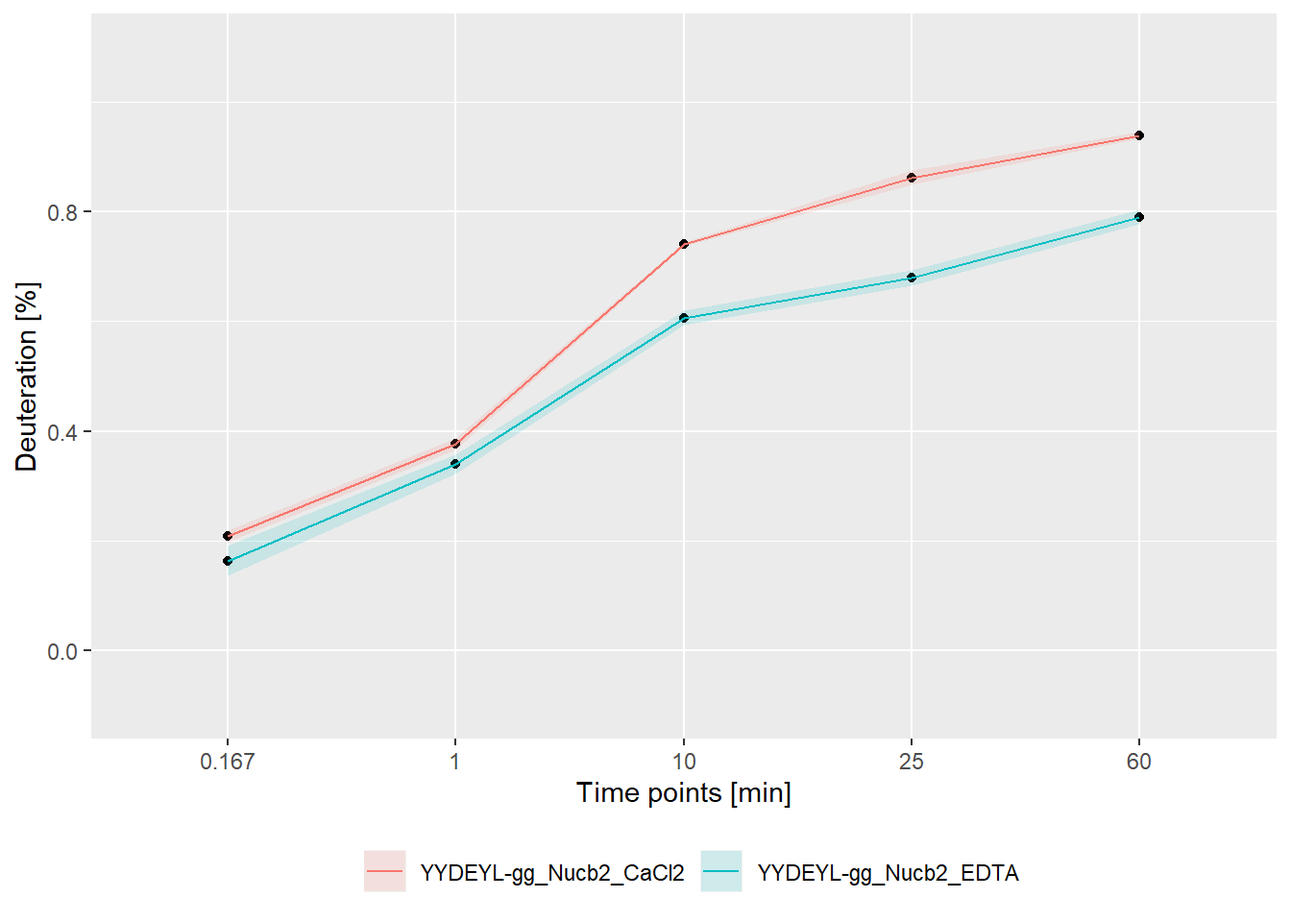
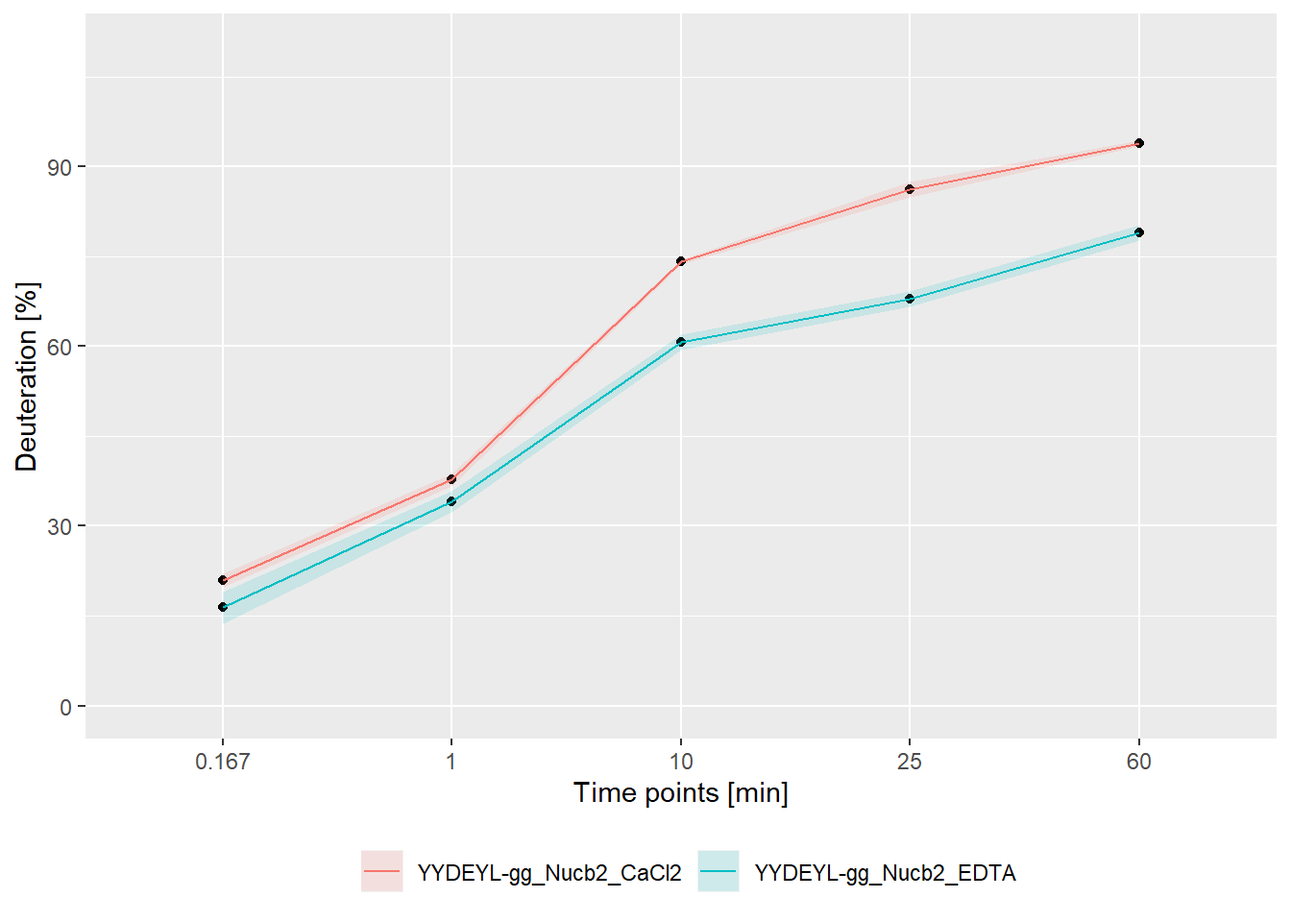
small vignette changes

diff --git a/docs/articles/overview.html b/docs/articles/overview.html
@@ -102,8 +102,8 @@
 <h2 class="hasAnchor">
 <a href="#comparison-of-the-existing-hdx-ms-software" class="anchor"></a>Comparison of the existing HDX-MS software</h2>
 <p>To show the novelty of HaDeX, we compare its functionalities with other relatively new software for analysis of HDX-MS data: MEMHDX <span class="citation">(Hourdel et al. 2016)</span> and Deuteros <span class="citation">(Lau et al. 2019)</span>.</p>
-<div id="htmlwidget-9978b064f5b861747e21" style="width:100%;height:auto;" class="datatables html-widget"></div>
-<script type="application/json" data-for="htmlwidget-9978b064f5b861747e21">{"x":{"style":"bootstrap","filter":"none","data":[["Accessibility","Accessibility","Accessibility","Analysis","Analysis","Analysis","Analysis","Analysis","Analysis","Visualization","Visualization","Visualization","Visualization","Visualization","Visualization","Visualization","Reporting","Reporting","Reporting","Reporting","Reporting"],["Web server","Programmatic access","Desktop software","Multi-state analysis","ISO-based uncertainty","Coverage and peptide overlap","Kinetics analysis","Quality control","N- and C-terminal length corrections","Global visualization of deuterium uptake","Woods plot","Zooming of the Woods plot","Customizable label names and colors","Peptide kinetics chart","3D structure visualization","Downloadable charts","Deuterium uptake download","Downloadable results of intermediate computations","Report generation","PyMol export","HDX Data Summary"],["Yes","No","No","No","No","No","Yes","No","No","Yes","No","No","No","Yes","Yes","Yes","Yes","No","No","No","No"],["No","No","Yes","No","No","No","No","No","Yes","Yes","Yes","Yes","No","No","No","Yes","Yes","No","No","Yes","No"],["Yes","Yes","Yes","Yes","Yes","Yes","Yes","Yes","Yes","Yes","Yes","Yes","Yes","Yes","No","Yes","Yes","Yes","Yes","No","Yes"]],"container":"<table class=\"table table-striped table-hover\">\n  <thead>\n    <tr>\n      <th>Type<\/th>\n      <th>Name<\/th>\n      <th>MEMHDX<\/th>\n      <th>Deuteros<\/th>\n      <th>HaDeX<\/th>\n    <\/tr>\n  <\/thead>\n<\/table>","options":{"dom":"t","ordering":false,"paging":false,"order":[],"autoWidth":false,"orderClasses":false,"rowCallback":"function(row, data) {\nvar value=data[2]; $(this.api().cell(row, 2).node()).css({'background-color':value == \"Yes\" ? \"#00BFFF\" : value == \"No\" ? \"#FF8C91\" : \"\"});\nvar value=data[3]; $(this.api().cell(row, 3).node()).css({'background-color':value == \"Yes\" ? \"#00BFFF\" : value == \"No\" ? \"#FF8C91\" : \"\"});\nvar value=data[4]; $(this.api().cell(row, 4).node()).css({'background-color':value == \"Yes\" ? \"#00BFFF\" : value == \"No\" ? \"#FF8C91\" : \"\"});\n}"}},"evals":["options.rowCallback"],"jsHooks":[]}</script><p>We have not considered HDX Workbench <span class="citation">(Pascal et al. 2012)</span> as it deals with the preliminary steps of the analysis.</p>
+<div id="htmlwidget-8c4b17b5b3e9479f0cd3" style="width:100%;height:auto;" class="datatables html-widget"></div>
+<script type="application/json" data-for="htmlwidget-8c4b17b5b3e9479f0cd3">{"x":{"style":"bootstrap","filter":"none","data":[["Accessibility","Accessibility","Accessibility","Analysis","Analysis","Analysis","Analysis","Analysis","Analysis","Visualization","Visualization","Visualization","Visualization","Visualization","Visualization","Visualization","Reporting","Reporting","Reporting","Reporting","Reporting"],["Web server","Programmatic access","Desktop software","Multi-state analysis","ISO-based uncertainty","Coverage and peptide overlap","Kinetics analysis","Quality control","N- and C-terminal length corrections","Global visualization of deuterium uptake","Woods plot","Zooming of the Woods plot","Customizable label names and colors","Peptide kinetics chart","3D structure visualization","Downloadable charts","Deuterium uptake download","Downloadable results of intermediate computations","Report generation","PyMol export","HDX Data Summary"],["Yes","No","No","No","No","No","Yes","No","No","Yes","No","No","No","Yes","Yes","Yes","Yes","No","No","No","No"],["No","No","Yes","No","No","No","No","No","Yes","Yes","Yes","Yes","No","No","No","Yes","Yes","No","No","Yes","No"],["Yes","Yes","Yes","Yes","Yes","Yes","Yes","Yes","Yes","Yes","Yes","Yes","Yes","Yes","No","Yes","Yes","Yes","Yes","No","Yes"]],"container":"<table class=\"table table-striped table-hover\">\n  <thead>\n    <tr>\n      <th>Type<\/th>\n      <th>Name<\/th>\n      <th>MEMHDX<\/th>\n      <th>Deuteros<\/th>\n      <th>HaDeX<\/th>\n    <\/tr>\n  <\/thead>\n<\/table>","options":{"dom":"t","ordering":false,"paging":false,"order":[],"autoWidth":false,"orderClasses":false,"rowCallback":"function(row, data) {\nvar value=data[2]; $(this.api().cell(row, 2).node()).css({'background-color':value == \"Yes\" ? \"#00BFFF\" : value == \"No\" ? \"#FF8C91\" : \"\"});\nvar value=data[3]; $(this.api().cell(row, 3).node()).css({'background-color':value == \"Yes\" ? \"#00BFFF\" : value == \"No\" ? \"#FF8C91\" : \"\"});\nvar value=data[4]; $(this.api().cell(row, 4).node()).css({'background-color':value == \"Yes\" ? \"#00BFFF\" : value == \"No\" ? \"#FF8C91\" : \"\"});\n}"}},"evals":["options.rowCallback"],"jsHooks":[]}</script><p>We have not considered HDX Workbench <span class="citation">(Pascal et al. 2012)</span> as it deals with the preliminary steps of the analysis.</p>
 <p><strong>Web server:</strong> a software is available as a web server.</p>
 <p><strong>Programmatic access:</strong> analytic functionalities are documented and available from a command line.</p>
 <p><strong>Desktop software:</strong> a software can be installed locally.</p>
@@ -133,11 +133,11 @@
 <h2 class="hasAnchor">
 <a href="#data-import" class="anchor"></a>Data import</h2>
 <p>The HaDeX web server works only on data in the DynamX datafile format (Waters Corp.). The data from other sources may be also adjusted to the format accepted by HaDeX provided it has following columns:</p>
-<div id="htmlwidget-6651a2d8198600b94a19" style="width:100%;height:auto;" class="datatables html-widget"></div>
-<script type="application/json" data-for="htmlwidget-6651a2d8198600b94a19">{"x":{"style":"bootstrap","filter":"none","data":[["Protein","Start","End","Sequence","Modification","Fragment","MaxUptake","MHP","State","Exposure","File","z","RT","Inten","Center"],["Character","Integer","Integer","Character","Logic","Logic","Numeric","Numeric","Character","Numeric","Character","Integer","Numeric","Numeric","Numeric"]],"container":"<table class=\"table table-striped table-hover\">\n  <thead>\n    <tr>\n      <th>Column.Name<\/th>\n      <th>Column.Type<\/th>\n    <\/tr>\n  <\/thead>\n<\/table>","options":{"dom":"t","ordering":false,"paging":false,"autoWidth":true,"order":[],"orderClasses":false}},"evals":[],"jsHooks":[]}</script><p>Although data can be imported into R using other tools, we strongly advise to rely on the <a href="https://hadexversum.github.io/HaDeX/reference/read_hdx.html">read_hdx()</a> function:</p>
+<div id="htmlwidget-b586ad79e2da7540904d" style="width:100%;height:auto;" class="datatables html-widget"></div>
+<script type="application/json" data-for="htmlwidget-b586ad79e2da7540904d">{"x":{"style":"bootstrap","filter":"none","data":[["Protein","Start","End","Sequence","Modification","Fragment","MaxUptake","MHP","State","Exposure","File","z","RT","Inten","Center"],["Character","Integer","Integer","Character","Logic","Logic","Numeric","Numeric","Character","Numeric","Character","Integer","Numeric","Numeric","Numeric"]],"container":"<table class=\"table table-striped table-hover\">\n  <thead>\n    <tr>\n      <th>Column.Name<\/th>\n      <th>Column.Type<\/th>\n    <\/tr>\n  <\/thead>\n<\/table>","options":{"dom":"t","ordering":false,"paging":false,"autoWidth":true,"order":[],"orderClasses":false}},"evals":[],"jsHooks":[]}</script><p>Although data can be imported into R using other tools, we strongly advise to rely on the <a href="https://hadexversum.github.io/HaDeX/reference/read_hdx.html">read_hdx()</a> function:</p>
 <div class="sourceCode" id="cb1"><pre class="sourceCode r"><code class="sourceCode r"><a class="sourceLine" id="cb1-1" title="1">dat &lt;-<span class="st"> </span><span class="kw"><a href="../reference/read_hdx.html">read_hdx</a></span>(<span class="kw"><a href="https://www.rdocumentation.org/packages/base/topics/system.file">system.file</a></span>(<span class="dt">package =</span> <span class="st">"HaDeX"</span>, </a>
 <a class="sourceLine" id="cb1-2" title="2">                            <span class="st">"HaDeX/data/KD_190304_Nucb2_EDTA_CaCl2_test02_clusterdata.csv"</span>))</a></code></pre></div>
-<p>Currently, <a href="https://hadexversum.github.io/HaDeX/reference/read_hdx.html">read_hdx()</a> supports .csv, .tsv and .xls files fulfilling the data structure described above.</p>
+<p>Currently, <a href="https://hadexversum.github.io/HaDeX/reference/read_hdx.html">read_hdx()</a> supports .csv, .tsv and .xls files fulfilling the data structure described above. Files with data from multiple proteins are supported. The user need to indicate which protein is of interest for calculations.</p>
 </div>
 <div id="computation-of-deuteration-levels" class="section level2">
 <h2 class="hasAnchor">
@@ -397,11 +397,11 @@
 <pre><code>## # A tibble: 5 x 15
 ##   Protein Sequence Start   End State time_chosen frac_exch_state
 ##   &lt;chr&gt;   &lt;chr&gt;    &lt;int&gt; &lt;int&gt; &lt;chr&gt; &lt;fct&gt;                 &lt;dbl&gt;
-## 1 db_Nuc~ YYDEYL      45    50 gg_N~ 0.167                 0.209
-## 2 db_Nuc~ YYDEYL      45    50 gg_N~ 1                     0.377
-## 3 db_Nuc~ YYDEYL      45    50 gg_N~ 10                    0.741
-## 4 db_Nuc~ YYDEYL      45    50 gg_N~ 25                    0.862
-## 5 db_Nuc~ YYDEYL      45    50 gg_N~ 60                    0.939
+## 1 db_Nuc~ YYDEYL      45    50 gg_N~ 0.167                  20.9
+## 2 db_Nuc~ YYDEYL      45    50 gg_N~ 1                      37.7
+## 3 db_Nuc~ YYDEYL      45    50 gg_N~ 10                     74.1
+## 4 db_Nuc~ YYDEYL      45    50 gg_N~ 25                     86.2
+## 5 db_Nuc~ YYDEYL      45    50 gg_N~ 60                     93.9
 ## # ... with 8 more variables: err_frac_exch_state &lt;dbl&gt;,
 ## #   abs_frac_exch_state &lt;dbl&gt;, err_abs_frac_exch_state &lt;dbl&gt;,
 ## #   avg_theo_in_time &lt;dbl&gt;, err_avg_theo_in_time &lt;dbl&gt;,
@@ -418,11 +418,11 @@
 <pre><code>## # A tibble: 5 x 15
 ##   Protein Sequence Start   End State time_chosen frac_exch_state
 ##   &lt;chr&gt;   &lt;chr&gt;    &lt;int&gt; &lt;int&gt; &lt;chr&gt; &lt;fct&gt;                 &lt;dbl&gt;
-## 1 db_Nuc~ YYDEYL      45    50 gg_N~ 0.167                 0.164
-## 2 db_Nuc~ YYDEYL      45    50 gg_N~ 1                     0.340
-## 3 db_Nuc~ YYDEYL      45    50 gg_N~ 10                    0.607
-## 4 db_Nuc~ YYDEYL      45    50 gg_N~ 25                    0.679
-## 5 db_Nuc~ YYDEYL      45    50 gg_N~ 60                    0.790
+## 1 db_Nuc~ YYDEYL      45    50 gg_N~ 0.167                  16.4
+## 2 db_Nuc~ YYDEYL      45    50 gg_N~ 1                      34.0
+## 3 db_Nuc~ YYDEYL      45    50 gg_N~ 10                     60.7
+## 4 db_Nuc~ YYDEYL      45    50 gg_N~ 25                     67.9
+## 5 db_Nuc~ YYDEYL      45    50 gg_N~ 60                     79.0
 ## # ... with 8 more variables: err_frac_exch_state &lt;dbl&gt;,
 ## #   abs_frac_exch_state &lt;dbl&gt;, err_abs_frac_exch_state &lt;dbl&gt;,
 ## #   avg_theo_in_time &lt;dbl&gt;, err_avg_theo_in_time &lt;dbl&gt;,
@@ -504,7 +504,7 @@
 <div id="hadex-graphical-user-interface" class="section level1">
 <h1 class="hasAnchor">
 <a href="#hadex-graphical-user-interface" class="anchor"></a>HaDeX Graphical User Interface</h1>
-<p>The HaDeX Shiny app is launched by the <a href="https://hadexversum.github.io/HaDeX/reference/HaDeX_gui.html">HaDeX_gui()</a> function or available at MS Lab website: <a href="http://mslab-ibb.pl/shiny/HaDeX/" class="uri">http://mslab-ibb.pl/shiny/HaDeX/</a>.</p>
+<p>The HaDeX Shiny app is launched by the <a href="https://hadexversum.github.io/HaDeX/reference/HaDeX_gui.html">HaDeX_gui()</a> function or available at MS Lab website: <a href="http://mslab-ibb.pl/shiny/HaDeX/" class="uri">http://mslab-ibb.pl/shiny/HaDeX/</a>. In the Input Data tab the user can adjust parameters to be propagated for the whole analysis.</p>
 </div>
 <div id="examples" class="section level1">
 <h1 class="hasAnchor">

diff --git a/docs/reference/calculate_kinetics.html b/docs/reference/calculate_kinetics.html
@@ -127,7 +127,7 @@ for given peptide.</p>
     </div>
 
     <pre class="usage"><span class='fu'>calculate_kinetics</span>(<span class='no'>dat</span>, <span class='kw'>protein</span> <span class='kw'>=</span> <span class='no'>dat</span><span class='kw'>[[</span><span class='st'>"Protein"</span>]][<span class='fl'>1</span>], <span class='no'>sequence</span>, <span class='no'>state</span>,
-  <span class='no'>start</span>, <span class='no'>end</span>, <span class='no'>time_in</span>, <span class='no'>time_out</span>)</pre>
+  <span class='no'>start</span>, <span class='no'>end</span>, <span class='no'>time_in</span>, <span class='no'>time_out</span>, <span class='kw'>deut_part</span> <span class='kw'>=</span> <span class='fl'>1</span>)</pre>
     
     <h2 class="hasAnchor" id="arguments"><a class="anchor" href="#arguments"></a>Arguments</h2>
     <table class="ref-arguments">
@@ -164,6 +164,10 @@ for given peptide.</p>
       <th>time_out</th>
       <td><p>time out for experimental calculations</p></td>
     </tr>
+    <tr>
+      <th>deut_part</th>
+      <td><p>percentage of deuterium the protein was exposed to, value in range [0, 1]</p></td>
+    </tr>
     </table>
     
     <h2 class="hasAnchor" id="value"><a class="anchor" href="#value"></a>Value</h2>
@@ -180,7 +184,8 @@ the returned structure is equivalent to structure returned by
     <p>The function calculates deuteration data for all available data points 
 for given peptide. 
 All four variants (relative &amp; theoretical combinations) of deuteration computations 
-are supported.
+are supported. Manual correction of percentage of deuterium the protein was exposed 
+to during the exchange in theoretical calculations is provided.
 To visualize obtained data we recommend using <code><a href='plot_kinetics.html'>plot_kinetics</a></code> function.
 The first version doesn't support filled Modification and Fragment columns.</p>
     
@@ -205,11 +210,11 @@ The first version doesn't support filled Modification and Fragment columns.</p>
                    <span class='kw'>time_out</span> <span class='kw'>=</span> <span class='fl'>1440</span>))</div><div class='output co'>#&gt; <span style='color: #555555;'># A tibble: 5 x 15</span><span>
 #&gt;   Protein Sequence Start   End State time_chosen frac_exch_state
 #&gt;   </span><span style='color: #555555;font-style: italic;'>&lt;chr&gt;</span><span>   </span><span style='color: #555555;font-style: italic;'>&lt;chr&gt;</span><span>    </span><span style='color: #555555;font-style: italic;'>&lt;int&gt;</span><span> </span><span style='color: #555555;font-style: italic;'>&lt;int&gt;</span><span> </span><span style='color: #555555;font-style: italic;'>&lt;chr&gt;</span><span> </span><span style='color: #555555;font-style: italic;'>&lt;fct&gt;</span><span>                 </span><span style='color: #555555;font-style: italic;'>&lt;dbl&gt;</span><span>
-#&gt; </span><span style='color: #555555;'>1</span><span> db_CD1~ INITSSA~     1    15 CD160 0.167                 0.769
-#&gt; </span><span style='color: #555555;'>2</span><span> db_CD1~ INITSSA~     1    15 CD160 1                     0.842
-#&gt; </span><span style='color: #555555;'>3</span><span> db_CD1~ INITSSA~     1    15 CD160 5                     0.875
-#&gt; </span><span style='color: #555555;'>4</span><span> db_CD1~ INITSSA~     1    15 CD160 25                    0.932
-#&gt; </span><span style='color: #555555;'>5</span><span> db_CD1~ INITSSA~     1    15 CD160 120                   0.955
+#&gt; </span><span style='color: #555555;'>1</span><span> db_CD1~ INITSSA~     1    15 CD160 0.167                  76.9
+#&gt; </span><span style='color: #555555;'>2</span><span> db_CD1~ INITSSA~     1    15 CD160 1                      84.2
+#&gt; </span><span style='color: #555555;'>3</span><span> db_CD1~ INITSSA~     1    15 CD160 5                      87.5
+#&gt; </span><span style='color: #555555;'>4</span><span> db_CD1~ INITSSA~     1    15 CD160 25                     93.2
+#&gt; </span><span style='color: #555555;'>5</span><span> db_CD1~ INITSSA~     1    15 CD160 120                    95.5
 #&gt; </span><span style='color: #555555;'># ... with 8 more variables: err_frac_exch_state </span><span style='color: #555555;font-style: italic;'>&lt;dbl&gt;</span><span style='color: #555555;'>,
 #&gt; #   abs_frac_exch_state </span><span style='color: #555555;font-style: italic;'>&lt;dbl&gt;</span><span style='color: #555555;'>, err_abs_frac_exch_state </span><span style='color: #555555;font-style: italic;'>&lt;dbl&gt;</span><span style='color: #555555;'>,
 #&gt; #   avg_theo_in_time </span><span style='color: #555555;font-style: italic;'>&lt;dbl&gt;</span><span style='color: #555555;'>, err_avg_theo_in_time </span><span style='color: #555555;font-style: italic;'>&lt;dbl&gt;</span><span style='color: #555555;'>,
@@ -226,11 +231,11 @@ The first version doesn't support filled Modification and Fragment columns.</p>
                    <span class='kw'>time_out</span> <span class='kw'>=</span> <span class='fl'>1440</span>))</div><div class='output co'>#&gt; </span><span style='color: #555555;'># A tibble: 5 x 15</span><span>
 #&gt;   Protein Sequence Start   End State time_chosen frac_exch_state
 #&gt;   </span><span style='color: #555555;font-style: italic;'>&lt;chr&gt;</span><span>   </span><span style='color: #555555;font-style: italic;'>&lt;chr&gt;</span><span>    </span><span style='color: #555555;font-style: italic;'>&lt;int&gt;</span><span> </span><span style='color: #555555;font-style: italic;'>&lt;int&gt;</span><span> </span><span style='color: #555555;font-style: italic;'>&lt;chr&gt;</span><span> </span><span style='color: #555555;font-style: italic;'>&lt;fct&gt;</span><span>                 </span><span style='color: #555555;font-style: italic;'>&lt;dbl&gt;</span><span>
-#&gt; </span><span style='color: #555555;'>1</span><span> db_CD1~ INITSSA~     1    15 CD16~ 0.167                 0.744
-#&gt; </span><span style='color: #555555;'>2</span><span> db_CD1~ INITSSA~     1    15 CD16~ 1                     0.815
-#&gt; </span><span style='color: #555555;'>3</span><span> db_CD1~ INITSSA~     1    15 CD16~ 5                     0.829
-#&gt; </span><span style='color: #555555;'>4</span><span> db_CD1~ INITSSA~     1    15 CD16~ 25                    0.877
-#&gt; </span><span style='color: #555555;'>5</span><span> db_CD1~ INITSSA~     1    15 CD16~ 120                   0.952
+#&gt; </span><span style='color: #555555;'>1</span><span> db_CD1~ INITSSA~     1    15 CD16~ 0.167                  74.4
+#&gt; </span><span style='color: #555555;'>2</span><span> db_CD1~ INITSSA~     1    15 CD16~ 1                      81.5
+#&gt; </span><span style='color: #555555;'>3</span><span> db_CD1~ INITSSA~     1    15 CD16~ 5                      82.9
+#&gt; </span><span style='color: #555555;'>4</span><span> db_CD1~ INITSSA~     1    15 CD16~ 25                     87.7
+#&gt; </span><span style='color: #555555;'>5</span><span> db_CD1~ INITSSA~     1    15 CD16~ 120                    95.2
 #&gt; </span><span style='color: #555555;'># ... with 8 more variables: err_frac_exch_state </span><span style='color: #555555;font-style: italic;'>&lt;dbl&gt;</span><span style='color: #555555;'>,
 #&gt; #   abs_frac_exch_state </span><span style='color: #555555;font-style: italic;'>&lt;dbl&gt;</span><span style='color: #555555;'>, err_abs_frac_exch_state </span><span style='color: #555555;font-style: italic;'>&lt;dbl&gt;</span><span style='color: #555555;'>,
 #&gt; #   avg_theo_in_time </span><span style='color: #555555;font-style: italic;'>&lt;dbl&gt;</span><span style='color: #555555;'>, err_avg_theo_in_time </span><span style='color: #555555;font-style: italic;'>&lt;dbl&gt;</span><span style='color: #555555;'>,

diff --git a/docs/reference/calculate_state_deuteration.html b/docs/reference/calculate_state_deuteration.html
@@ -125,7 +125,7 @@
     </div>
 
     <pre class="usage"><span class='fu'>calculate_state_deuteration</span>(<span class='no'>dat</span>, <span class='no'>protein</span>, <span class='no'>state</span>, <span class='no'>time_in</span>, <span class='no'>time_chosen</span>,
-  <span class='no'>time_out</span>)</pre>
+  <span class='no'>time_out</span>, <span class='kw'>deut_part</span> <span class='kw'>=</span> <span class='fl'>1</span>)</pre>
     
     <h2 class="hasAnchor" id="arguments"><a class="anchor" href="#arguments"></a>Arguments</h2>
     <table class="ref-arguments">
@@ -154,6 +154,10 @@
       <th>time_out</th>
       <td><p>experimental `time_out`</p></td>
     </tr>
+    <tr>
+      <th>deut_part</th>
+      <td><p>percentage of deuterium the protein was exposed to, value in range [0, 1]</p></td>
+    </tr>
     </table>
     
     <h2 class="hasAnchor" id="value"><a class="anchor" href="#value"></a>Value</h2>
@@ -164,7 +168,8 @@
 
     <p>The function <code>calculate_state_deuteration</code> calculates deuteration for peptides in given protein in given state based
 on supplied parameters: `time_in`, `time_out` and `time_chosen`. All four variants (combinations of theoretical &amp; relative) are 
-supplied (mean values and uncertainty).</p>
+supplied (mean values and uncertainty). Manual correction of percentage of deuterium the protein was exposed to during the exchange
+in theoretical calculations is provided.</p>
 <p>Methods of calculation and uncertainty are profoundly discussed in the vignette.</p>
     
     <h2 class="hasAnchor" id="see-also"><a class="anchor" href="#see-also"></a>See also</h2>
@@ -181,16 +186,16 @@ supplied (mean values and uncertainty).</p>
                             <span class='kw'>time_in</span> <span class='kw'>=</span> <span class='fl'>0</span>, <span class='kw'>time_chosen</span> <span class='kw'>=</span> <span class='fl'>5.000</span>, <span class='kw'>time_out</span> <span class='kw'>=</span> <span class='fl'>1440.000</span>)</div><div class='output co'>#&gt; <span style='color: #555555;'># A tibble: 41 x 14</span><span>
 #&gt;    Protein Sequence Start   End State frac_exch_state err_frac_exch_s~
 #&gt;    </span><span style='color: #555555;font-style: italic;'>&lt;chr&gt;</span><span>   </span><span style='color: #555555;font-style: italic;'>&lt;chr&gt;</span><span>    </span><span style='color: #555555;font-style: italic;'>&lt;int&gt;</span><span> </span><span style='color: #555555;font-style: italic;'>&lt;int&gt;</span><span> </span><span style='color: #555555;font-style: italic;'>&lt;chr&gt;</span><span>           </span><span style='color: #555555;font-style: italic;'>&lt;dbl&gt;</span><span>            </span><span style='color: #555555;font-style: italic;'>&lt;dbl&gt;</span><span>
-#&gt; </span><span style='color: #555555;'> 1</span><span> db_CD1~ INITSSA~     1    15 CD160           0.876          0.003</span><span style='text-decoration: underline;'>95</span><span>
-#&gt; </span><span style='color: #555555;'> 2</span><span> db_CD1~ LICTVW      16    21 CD160           0.417          0.003</span><span style='text-decoration: underline;'>46</span><span>
-#&gt; </span><span style='color: #555555;'> 3</span><span> db_CD1~ LICTVWH~    16    29 CD160           0.721          0.007</span><span style='text-decoration: underline;'>11</span><span>
-#&gt; </span><span style='color: #555555;'> 4</span><span> db_CD1~ ICTVWHK~    17    29 CD160           0.756          0.005</span><span style='text-decoration: underline;'>20</span><span>
-#&gt; </span><span style='color: #555555;'> 5</span><span> db_CD1~ FVVFL       30    34 CD160           0.401          0.012</span><span style='text-decoration: underline;'>3</span><span> 
-#&gt; </span><span style='color: #555555;'> 6</span><span> db_CD1~ LCKDRSG~    34    48 CD160           0.976          0.003</span><span style='text-decoration: underline;'>68</span><span>
-#&gt; </span><span style='color: #555555;'> 7</span><span> db_CD1~ LCKDRSG~    34    49 CD160           0.972          0.003</span><span style='text-decoration: underline;'>31</span><span>
-#&gt; </span><span style='color: #555555;'> 8</span><span> db_CD1~ LCKDRSG~    34    51 CD160           0.953          0.002</span><span style='text-decoration: underline;'>40</span><span>
-#&gt; </span><span style='color: #555555;'> 9</span><span> db_CD1~ LCKDRSG~    34    69 CD160           0.936          0.002</span><span style='text-decoration: underline;'>22</span><span>
-#&gt; </span><span style='color: #555555;'>10</span><span> db_CD1~ CKDRSGD~    35    48 CD160           0.972          0.004</span><span style='text-decoration: underline;'>62</span><span>
+#&gt; </span><span style='color: #555555;'> 1</span><span> db_CD1~ INITSSA~     1    15 CD160            87.6            0.395
+#&gt; </span><span style='color: #555555;'> 2</span><span> db_CD1~ LICTVW      16    21 CD160            41.7            0.346
+#&gt; </span><span style='color: #555555;'> 3</span><span> db_CD1~ LICTVWH~    16    29 CD160            72.1            0.711
+#&gt; </span><span style='color: #555555;'> 4</span><span> db_CD1~ ICTVWHK~    17    29 CD160            75.6            0.520
+#&gt; </span><span style='color: #555555;'> 5</span><span> db_CD1~ FVVFL       30    34 CD160            40.1            1.23 
+#&gt; </span><span style='color: #555555;'> 6</span><span> db_CD1~ LCKDRSG~    34    48 CD160            97.6            0.368
+#&gt; </span><span style='color: #555555;'> 7</span><span> db_CD1~ LCKDRSG~    34    49 CD160            97.2            0.331
+#&gt; </span><span style='color: #555555;'> 8</span><span> db_CD1~ LCKDRSG~    34    51 CD160            95.3            0.240
+#&gt; </span><span style='color: #555555;'> 9</span><span> db_CD1~ LCKDRSG~    34    69 CD160            93.6            0.222
+#&gt; </span><span style='color: #555555;'>10</span><span> db_CD1~ CKDRSGD~    35    48 CD160            97.2            0.462
 #&gt; </span><span style='color: #555555;'># ... with 31 more rows, and 7 more variables: abs_frac_exch_state </span><span style='color: #555555;font-style: italic;'>&lt;dbl&gt;</span><span style='color: #555555;'>,
 #&gt; #   err_abs_frac_exch_state </span><span style='color: #555555;font-style: italic;'>&lt;dbl&gt;</span><span style='color: #555555;'>, avg_theo_in_time </span><span style='color: #555555;font-style: italic;'>&lt;dbl&gt;</span><span style='color: #555555;'>,
 #&gt; #   err_avg_theo_in_time </span><span style='color: #555555;font-style: italic;'>&lt;dbl&gt;</span><span style='color: #555555;'>, abs_avg_theo_in_time </span><span style='color: #555555;font-style: italic;'>&lt;dbl&gt;</span><span style='color: #555555;'>,

diff --git a/docs/reference/plot_kinetics.html b/docs/reference/plot_kinetics.html
@@ -179,11 +179,11 @@ pass the result as kin_dat.</p>
                            <span class='kw'>time_out</span> <span class='kw'>=</span> <span class='fl'>1440</span>))</div><div class='output co'>#&gt; <span style='color: #555555;'># A tibble: 5 x 15</span><span>
 #&gt;   Protein Sequence Start   End State time_chosen frac_exch_state
 #&gt;   </span><span style='color: #555555;font-style: italic;'>&lt;chr&gt;</span><span>   </span><span style='color: #555555;font-style: italic;'>&lt;chr&gt;</span><span>    </span><span style='color: #555555;font-style: italic;'>&lt;int&gt;</span><span> </span><span style='color: #555555;font-style: italic;'>&lt;int&gt;</span><span> </span><span style='color: #555555;font-style: italic;'>&lt;chr&gt;</span><span> </span><span style='color: #555555;font-style: italic;'>&lt;fct&gt;</span><span>                 </span><span style='color: #555555;font-style: italic;'>&lt;dbl&gt;</span><span>
-#&gt; </span><span style='color: #555555;'>1</span><span> db_CD1~ INITSSA~     1    15 CD160 0.167                 0.769
-#&gt; </span><span style='color: #555555;'>2</span><span> db_CD1~ INITSSA~     1    15 CD160 1                     0.842
-#&gt; </span><span style='color: #555555;'>3</span><span> db_CD1~ INITSSA~     1    15 CD160 5                     0.875
-#&gt; </span><span style='color: #555555;'>4</span><span> db_CD1~ INITSSA~     1    15 CD160 25                    0.932
-#&gt; </span><span style='color: #555555;'>5</span><span> db_CD1~ INITSSA~     1    15 CD160 120                   0.955
+#&gt; </span><span style='color: #555555;'>1</span><span> db_CD1~ INITSSA~     1    15 CD160 0.167                  76.9
+#&gt; </span><span style='color: #555555;'>2</span><span> db_CD1~ INITSSA~     1    15 CD160 1                      84.2
+#&gt; </span><span style='color: #555555;'>3</span><span> db_CD1~ INITSSA~     1    15 CD160 5                      87.5
+#&gt; </span><span style='color: #555555;'>4</span><span> db_CD1~ INITSSA~     1    15 CD160 25                     93.2
+#&gt; </span><span style='color: #555555;'>5</span><span> db_CD1~ INITSSA~     1    15 CD160 120                    95.5
 #&gt; </span><span style='color: #555555;'># ... with 8 more variables: err_frac_exch_state </span><span style='color: #555555;font-style: italic;'>&lt;dbl&gt;</span><span style='color: #555555;'>,
 #&gt; #   abs_frac_exch_state </span><span style='color: #555555;font-style: italic;'>&lt;dbl&gt;</span><span style='color: #555555;'>, err_abs_frac_exch_state </span><span style='color: #555555;font-style: italic;'>&lt;dbl&gt;</span><span style='color: #555555;'>,
 #&gt; #   avg_theo_in_time </span><span style='color: #555555;font-style: italic;'>&lt;dbl&gt;</span><span style='color: #555555;'>, err_avg_theo_in_time </span><span style='color: #555555;font-style: italic;'>&lt;dbl&gt;</span><span style='color: #555555;'>,
@@ -200,11 +200,11 @@ pass the result as kin_dat.</p>
                            <span class='kw'>time_out</span> <span class='kw'>=</span> <span class='fl'>1440</span>))</div><div class='output co'>#&gt; </span><span style='color: #555555;'># A tibble: 5 x 15</span><span>
 #&gt;   Protein Sequence Start   End State time_chosen frac_exch_state
 #&gt;   </span><span style='color: #555555;font-style: italic;'>&lt;chr&gt;</span><span>   </span><span style='color: #555555;font-style: italic;'>&lt;chr&gt;</span><span>    </span><span style='color: #555555;font-style: italic;'>&lt;int&gt;</span><span> </span><span style='color: #555555;font-style: italic;'>&lt;int&gt;</span><span> </span><span style='color: #555555;font-style: italic;'>&lt;chr&gt;</span><span> </span><span style='color: #555555;font-style: italic;'>&lt;fct&gt;</span><span>                 </span><span style='color: #555555;font-style: italic;'>&lt;dbl&gt;</span><span>
-#&gt; </span><span style='color: #555555;'>1</span><span> db_CD1~ INITSSA~     1    15 CD16~ 0.167                 0.744
-#&gt; </span><span style='color: #555555;'>2</span><span> db_CD1~ INITSSA~     1    15 CD16~ 1                     0.815
-#&gt; </span><span style='color: #555555;'>3</span><span> db_CD1~ INITSSA~     1    15 CD16~ 5                     0.829
-#&gt; </span><span style='color: #555555;'>4</span><span> db_CD1~ INITSSA~     1    15 CD16~ 25                    0.877
-#&gt; </span><span style='color: #555555;'>5</span><span> db_CD1~ INITSSA~     1    15 CD16~ 120                   0.952
+#&gt; </span><span style='color: #555555;'>1</span><span> db_CD1~ INITSSA~     1    15 CD16~ 0.167                  74.4
+#&gt; </span><span style='color: #555555;'>2</span><span> db_CD1~ INITSSA~     1    15 CD16~ 1                      81.5
+#&gt; </span><span style='color: #555555;'>3</span><span> db_CD1~ INITSSA~     1    15 CD16~ 5                      82.9
+#&gt; </span><span style='color: #555555;'>4</span><span> db_CD1~ INITSSA~     1    15 CD16~ 25                     87.7
+#&gt; </span><span style='color: #555555;'>5</span><span> db_CD1~ INITSSA~     1    15 CD16~ 120                    95.2
 #&gt; </span><span style='color: #555555;'># ... with 8 more variables: err_frac_exch_state </span><span style='color: #555555;font-style: italic;'>&lt;dbl&gt;</span><span style='color: #555555;'>,
 #&gt; #   abs_frac_exch_state </span><span style='color: #555555;font-style: italic;'>&lt;dbl&gt;</span><span style='color: #555555;'>, err_abs_frac_exch_state </span><span style='color: #555555;font-style: italic;'>&lt;dbl&gt;</span><span style='color: #555555;'>,
 #&gt; #   avg_theo_in_time </span><span style='color: #555555;font-style: italic;'>&lt;dbl&gt;</span><span style='color: #555555;'>, err_avg_theo_in_time </span><span style='color: #555555;font-style: italic;'>&lt;dbl&gt;</span><span style='color: #555555;'>,

diff --git a/docs/index.html b/docs/index.html
@@ -82,7 +82,7 @@
 
 
 <p>
-  <img src="https://raw.githubusercontent.com/hadexversum/HaDeX/inst/HaDeX/HaDeX.png" width="100"></p>
+  <img src="https://raw.githubusercontent.com/hadexversum/HaDeX/master/inst/HaDeX/HaDeX.png" width="100"></p>
 <div id="hadex-analysis-and-visualisation-of-hydrogendeuterium-exchange-mass-spectrometry-data" class="section level2">
 <h2 class="hasAnchor">
 <a href="#hadex-analysis-and-visualisation-of-hydrogendeuterium-exchange-mass-spectrometry-data" class="anchor"></a>HaDeX: Analysis and Visualisation of Hydrogen/Deuterium Exchange Mass Spectrometry Data</h2>
@@ -153,6 +153,7 @@
 <li><a href="https://cran.r-project.org/package=HaDeX"><img src="https://www.r-pkg.org/badges/version/HaDeX" alt="CRAN_Status_Badge"></a></li>
 <li><a href="https://www.gnu.org/licenses/gpl-3.0.en.html"><img src="https://img.shields.io/badge/license-GPL--3-blue.svg" alt="license"></a></li>
 <li><a href="https://cran.r-project.org/package=HaDeX"><img src="https://cranlogs.r-pkg.org/badges/grand-total/HaDeX" alt="metacran downloads"></a></li>
+<li><a href="https://ci.appveyor.com/project/michbur/HaDeX"><img src="https://ci.appveyor.com/api/projects/status/github/michbur/HaDeX?branch=master&amp;svg=true" alt="AppVeyor build status"></a></li>
 </ul>
 </div>
 </div>
